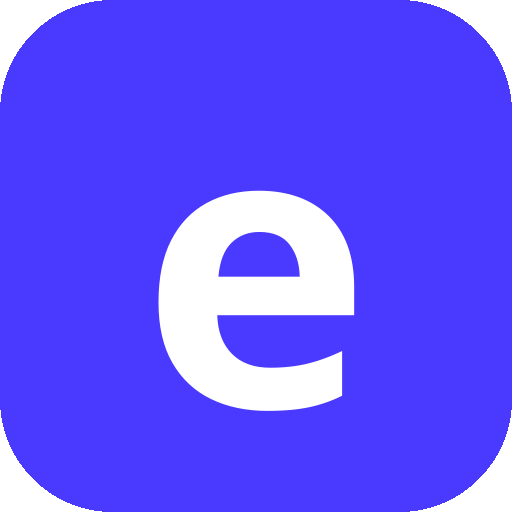
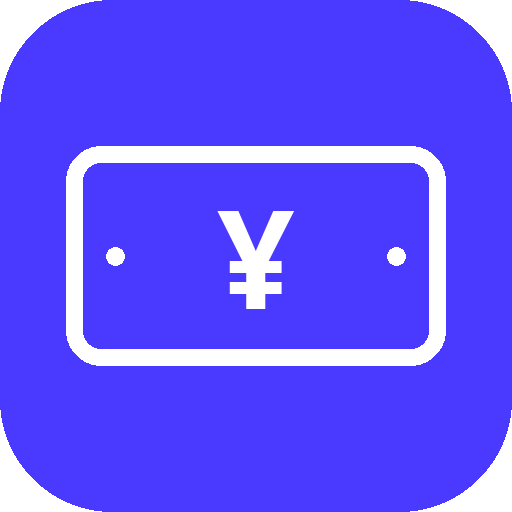
全ライブラリ最新化（TypeScript 7 / Vite 8 / drizzle-orm 0.45 / postgres.js 4）と Postgres の Docker 移行（postgres:18、ホスト側 127.0.0.1:5433）、PWA アイコンを Bill モチーフに変更

Changed region(s): [[0.125, 0.2812, 0.875, 0.8125]]

diff --git a/packages/web/src/components/atoms/Icon/Icon.tsx b/packages/web/src/components/atoms/Icon/Icon.tsx
@@ -14,7 +14,8 @@ export type IconName =
   | "receipt"
   | "settings"
   | "book"
-  | "plus";
+  | "plus"
+  | "bill";
 
 // 線画アイコンのパス集。色は currentColor で呼び出し側に委ねる。
 const ICON_PATHS: Record<IconName, ReactNode> = {
@@ -103,6 +104,14 @@ const ICON_PATHS: Record<IconName, ReactNode> = {
     <>
       <path d="M12 5v14" />
       <path d="M5 12h14" />
+    </>
+  ),
+  bill: (
+    <>
+      <rect x="2" y="6" width="20" height="12" rx="2" />
+      <circle cx="12" cy="12" r="2" />
+      <path d="M6 12h.01" />
+      <path d="M18 12h.01" />
     </>
   ),
 };

diff --git a/packages/web/src/components/templates/AppTemplate/AppTemplate.tsx b/packages/web/src/components/templates/AppTemplate/AppTemplate.tsx
@@ -40,7 +40,9 @@ export const AppTemplate = ({
         <aside className={clsx(styles.sidebar, !sidebarOpen && styles.sidebarClosed)}>
           <div className={styles.sidebarInner}>
             <Row gap="sm" align="center">
-              <div className={styles.brandMark}>e</div>
+              <div className={styles.brandMark}>
+                <Icon name="bill" size={21} />
+              </div>
               <Col gap="sm">
                 <Text variant="sectionTitle">eTaxAgent</Text>
                 <Text variant="caption">確定申告 準備ツール</Text>
